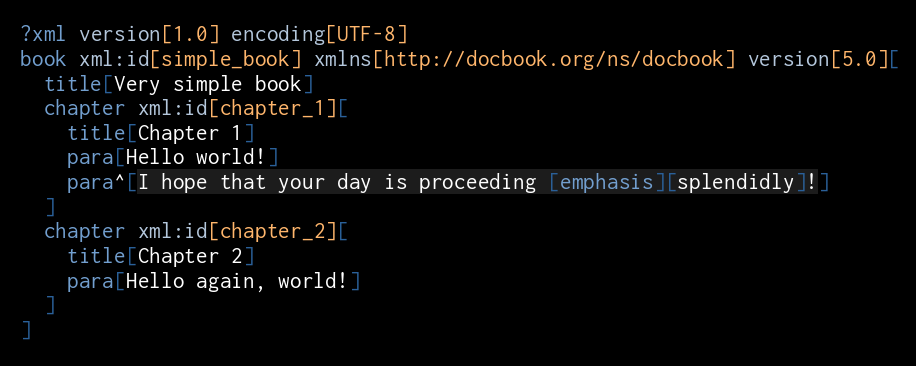
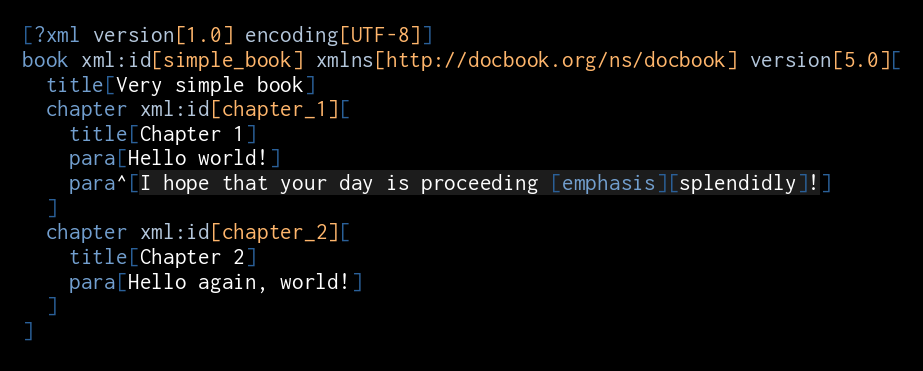
Draft: Bare-bones XML

diff --git a/draft-2022-01-14-bare-xml.md b/draft-2022-01-14-bare-xml.md
@@ -1,4 +1,4 @@
-# Draft: Bare-butt XML
+# Draft: Bare-bones XML
 
 In this article I break down how the XML syntax can be reduced to a minimal essence. In a few steps we will end up with a much simpler syntax which is still human-readable and at the same time much more efficient for machines to process. It is trivially mappable to XML and [DOM](https://en.wikipedia.org/wiki/Document_Object_Model), so existing knowledge and tools can be leveraged when working with it. To do that would be to take a step towards realizing a [mad vision of total intercommunication of all software systems](2022-01-13-vision.md).
 
@@ -29,7 +29,7 @@ Let's look at an example [(source)](https://en.wikipedia.org/wiki/DocBook#Sample
 To get rid of the closing tags we can rewrite it like this:
 
 ```
-<?xml version="1.0" encoding="UTF-8"?>
+<?xml version="1.0" encoding="UTF-8">
 <book xml:id="simple_book" xmlns="http://docbook.org/ns/docbook" version="5.0"><
   <title><Very simple book>
   <chapter xml:id="chapter_1"><
@@ -46,9 +46,11 @@ To get rid of the closing tags we can rewrite it like this:
 
 This is no longer valid XML, but it looks quite similar and it has identical logical structure. The original XML can be recreated from it exactly.
 
-With this transformation we went from 458 to 395 characters, losslessly reducing the size of the data by almost 14%.
+With this transformation we went from 458 to 395 characters, losslessly reducing the size of the data by 14%.
 
-<!-- 395/458 = 0.8624454148471615 -->
+<!-- 394/458
+0.8602620087336245
+ -->
 
 ## Quote marks and equals signs
 
@@ -62,7 +64,7 @@ We can reduce that by 40%, by getting rid of the apostrophe and the quote mark. 
 Once we do that, our data looks like this:
 
 ```
-<?xml version<1.0> encoding<UTF-8>?>
+<?xml version<1.0> encoding<UTF-8>>
 <book xml:id<simple_book> xmlns<http://docbook.org/ns/docbook> version<5.0>><
   <title><Very simple book>
   <chapter xml:id<chapter_1>><
@@ -77,7 +79,7 @@ Once we do that, our data looks like this:
 >
 ```
 
-We didn't have very many attributes here, so the gain is not substantial for our sample (we are now at just over size 15% reduction). However for XML with a lot of attributes and/or escapes the gain will grow significantly. Particularly, every `&apos;` and `&quot;` will turn into `'` and `"` -- that's 5 characters saved for each occurence. Plus readability and convenience are significantly improved.
+We didn't have very many attributes here, so the gain is not substantial for our sample (we are now at just over 15% reduction). However for XML with a lot of attributes and/or escapes the gain will grow significantly. Particularly, every `&apos;` and `&quot;` will turn into `'` and `"` -- that's 5 characters saved for each occurence. Plus readability and convenience are significantly improved.
 
 ## Entities
 
@@ -133,12 +135,12 @@ If we cut out ` <emphasis>splendidly</emphasis>` from our sample, we get:
 </book>
 ```
 
-This way we got rid of all mixed content in our XML. In fact most XML used for data interchange (as opposed to text markup) avoids it, because, by the XML spec[[1]](https://www.w3.org/TR/xml/#sec-mixed-content) it is impossible to place the same constraints at mixed content elements as on regular elements.
+This way we got rid of all mixed content in our XML. In fact most XML used for data interchange (as opposed to text markup) avoids it, because, by the XML spec[[1]](https://www.w3.org/TR/xml/#sec-mixed-content) it is impossible to place the same constraints on mixed content elements as on regular elements.
 
 If we constrain ourselves to a subset of XML which forbids mixed content, we can reduce the size of our data further, by getting rid of the brackets around opening tags:
 
 ```
-?xml version<1.0> encoding<UTF-8>
+<?xml version<1.0> encoding<UTF-8>>
 book xml:id<simple_book> xmlns<http://docbook.org/ns/docbook> version<5.0><
   title<Very simple book>
   chapter xml:id<chapter_1><
@@ -153,18 +155,19 @@ book xml:id<simple_book> xmlns<http://docbook.org/ns/docbook> version<5.0><
 >
 ```
 
-This gives us a nearly 20% reduction compared to the sample above.
+This gives us a nearly 19% reduction compared to the sample above.
 
-<!-- 344/426
-0.8075117370892019 -- almost 20 % -->
+<!-- 346/426
+0.812206572769953
+ -->
 
 
-## Going back: special treatment of mixed content
+## Going back: mixed content toggle
 
 In this case there is a way to have our cake and eat it too. We can reintroduce the mixed-content elements via a special syntax:
 
 ```
-?xml version<1.0> encoding<UTF-8>
+<?xml version<1.0> encoding<UTF-8>>
 book xml:id<simple_book> xmlns<http://docbook.org/ns/docbook> version<5.0><
   title<Very simple book>
   chapter xml:id<chapter_1><
@@ -183,7 +186,11 @@ Here the `^` in `para^` is a toggle which enables mixed content mode for the `pa
 
 Plus we could easily implement selective switch back to no-mixed-content for all tags with names followed by the `^` toggle. Win-win?
 
-Compared to the original sample we are again very close to a 20% reduction in size.
+Compared to the original sample we are very close to a 20% reduction in size.
+
+<!-- 370/458
+0.8078602620087336
+ -->
 
 ## Going ergonomic
 
@@ -196,7 +203,7 @@ To avoid confusion with XML proper and cut the number of keypresses needed to en
 This turns our sample into:
 
 ```
-?xml version[1.0] encoding[UTF-8]
+[?xml version[1.0] encoding[UTF-8]]
 book xml:id[simple_book] xmlns[http://docbook.org/ns/docbook] version[5.0][
   title[Very simple book]
   chapter xml:id[chapter_1][
@@ -257,7 +264,9 @@ and compare again:
 
 Not too bad if you ask me.
 
-<!-- ## Conclusion -->
+## Conclusion
+
+20
 
 <!-- 369/458
 0.8056768558951966
@@ -266,3 +275,7 @@ Not too bad if you ask me.
 ## See also
 
 [Jevko as ultra-compact XML](2022-01-13-xml.md)
+
+***
+
+© 2022 Darius J Chuck
